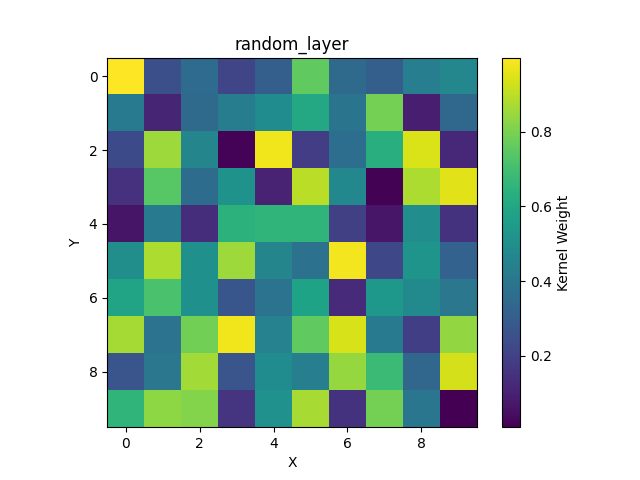
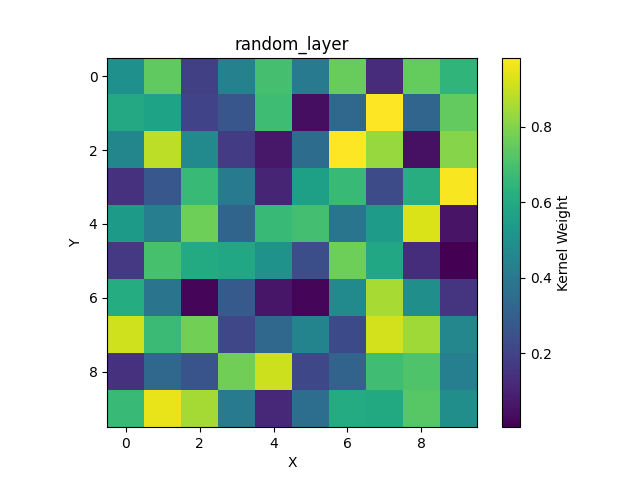
ran again

diff --git a/mesa/experimental/continuous_space/test.py b/mesa/experimental/continuous_space/test.py
@@ -1,8 +1,6 @@
-from mesa.experimental.continuous_space.property_layer import PropertyLayer, HasPropertyLayers
+from mesa.experimental.continuous_space.property_layer import PropertyLayer
 
 import matplotlib.pyplot as plt
-from scipy.signal import convolve2d
-import time 
 from mesa.experimental.continuous_space import ContinuousSpaceAgent, ContinuousSpace
 import numpy as np
 from mesa.model import Model 
@@ -10,9 +8,6 @@ from mesa.model import Model
 
 from mesa.visualization import SolaraViz, SpaceRenderer
 from mesa.visualization.components import AgentPortrayalStyle,  PropertyLayerStyle
-import solara
-from matplotlib.figure import Figure
-from mesa.visualization.utils import update_counter
 
 
 
@@ -106,57 +101,50 @@ if __name__ == "__main__":
         default_value=2
     )
 
-    # layer3=PropertyLayer.random_layer(
-    #     name="random_layer",
-    #     data=d,
-    #     bounds=[[0,10], [0,10]],
-    #     resolution=1
-    # )
+    # model.run_for(100)
+    # plotheatmap(model.space.trace_layer.data, "trace_layer")
+    # model.space._attach_property(layer2)
+    # model.run_for(5)
+    # plotheatmap(model.space.buffer_layer.data, "buffer_layer")
+    # plotheatmap(model.space.random_layer.data, "random_layer")
 
-    model.run_for(100)
-    plotheatmap(model.space.trace_layer.data, "trace_layer")
-    model.space._attach_property(layer2)
-    model.run_for(5)
-    plotheatmap(model.space.buffer_layer.data, "buffer_layer")
-    plotheatmap(model.space.random_layer.data, "random_layer")
+    # print(model.space.trace_layer.aggregate(operation=np.mean))
 
-    print(model.space.trace_layer.aggregate(operation=np.mean))
-
-    # def agent_portrayal(agent):
-    #     return AgentPortrayalStyle(size=10, marker='o', color='red')
+    def agent_portrayal(agent):
+        return AgentPortrayalStyle(size=10, marker='o', color='red')
         
 
-    # def propertylayer_portrayal(layer):
-    #     if layer.name=="trace_layer":
-    #         return PropertyLayerStyle(color='blue', alpha=0.8, colorbar=True)
-    #     if layer.name=="random_layer":
-    #         return PropertyLayerStyle(color='green', alpha=0.5, colorbar=True)
+    def propertylayer_portrayal(layer):
+        if layer.name=="trace_layer":
+            return PropertyLayerStyle(color='blue', alpha=0.8, colorbar=True)
+        if layer.name=="random_layer":
+            return PropertyLayerStyle(color='green', alpha=0.5, colorbar=True)
         
         
         
-    # model_params={
-    #     "rng":None,
-    #     "width":10,
-    #     "height":10,
-    #     "n_agents":5
-    # }
+    model_params={
+        "rng":None,
+        "width":10,
+        "height":10,
+        "n_agents":5
+    }
 
-    # renderer = (
-    #     SpaceRenderer(
-    #         model,
-    #         backend="altair",
-    #     )
-    # )
-    # renderer.draw_agents(agent_portrayal)
-    # renderer.draw_propertylayer(propertylayer_portrayal)
+    renderer = (
+        SpaceRenderer(
+            model,
+            backend="altair",
+        )
+    )
+    renderer.draw_agents(agent_portrayal)
+    renderer.draw_propertylayer(propertylayer_portrayal)
 
-    # page = SolaraViz(
-    #     model,
-    #     renderer,
-    #     model_params=model_params,
-    #     name="Actice Walker Model",
-    # )
+    page = SolaraViz(
+        model,
+        renderer,
+        model_params=model_params,
+        name="Actice Walker Model",
+    )
 
-    # page
+    page
 
     
